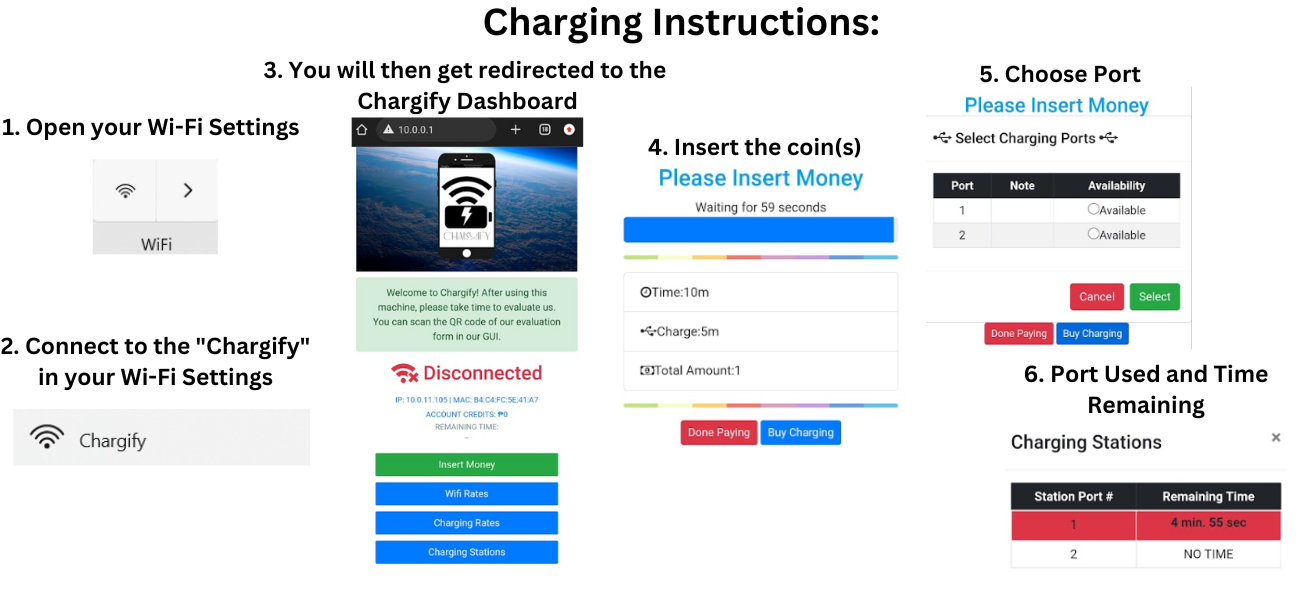
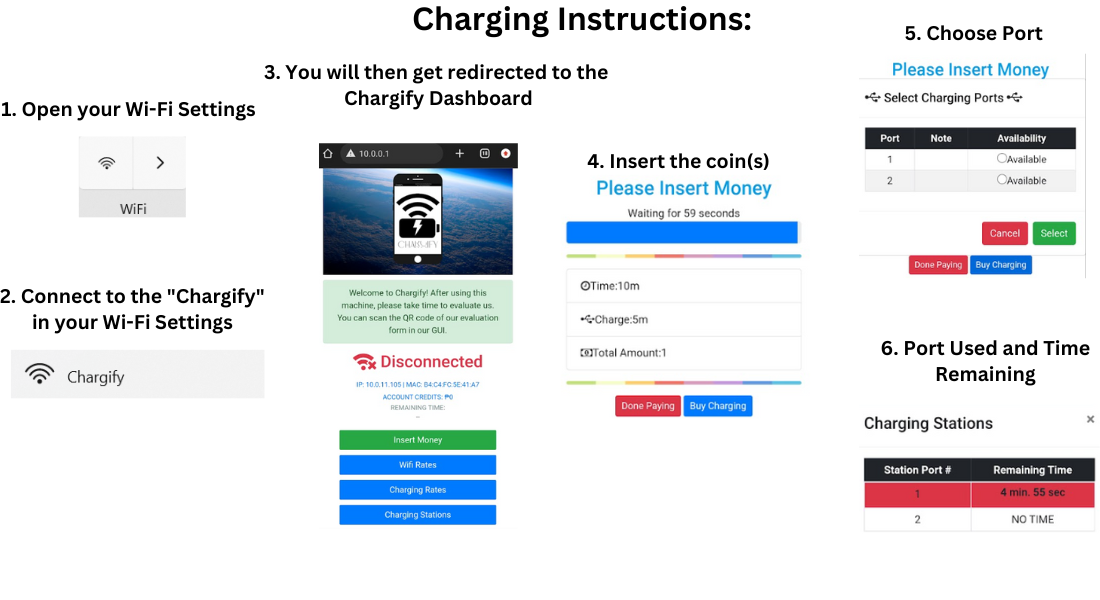
commitpayb

diff --git a/trialerror.html b/trialerror.html
@@ -1,13 +1,3 @@
-<html lang="en">
-<head>
-Test
-</head>
-<body>
-    <h1>This is a test</h1>
-    <a href="index.html">Back</a>
-</body>
-</html>
-
 <!doctype html>
 <html lang="en">
   <head>
@@ -31,11 +21,10 @@ Test
                 Chargify: Wi-Fi and Charging Station
             </a>
 
-            <a href="index.html">
+            <a href="instruction.html">
                 <button>Back</button>
             </a>
 
-            
             <button
                 class="navbar-toggler"
                 type="button"
@@ -51,10 +40,7 @@ Test
             <div class="collapse navbar-collapse" id="toggleMobileMenu">
                 <ul class="navbar-nav ms-auto text-center text-decoration-underline fw-bold">
                     <li>
-                        <a class="nav-link active" href="instruction.html">Wi-Fi</a>
-                    </li>
-                    <li>
-                        <a class="nav-link active" href="instruction.html">Charging</a>
+                        <a class="nav-link active" href="wifiinstruction.html">Wi-Fi</a>
                     </li>
                 </ul>
 
@@ -63,30 +49,14 @@ Test
         </nav>
     </div>
     <div class="container">
-        <div class="full-width d-flex justify-content-center and align-items-center">
+        <div class="full-width">
             <form class="rounded p-4 p-sm-3">
-                <div class="mb-1">
-
-                    
-                    <h1 class="color: green text-center">
-                        <img src="Wifi-Logo.JPG" width="130" height="100">
-                        WI-FI AND CHARGING STATION:<img src="place-Logo.JPG" width="130" height="100"><br>CHARGIFY<br><br>
+                <div class="mb-1">  
+                    <center>
+                        <img class="" src="trialerror.png" width="850" height="550">
                         </h1>
-                    
-
-                    <label for=""></label>
-
-
+                    </center>
                 </div>
-            <a href="instruction.html">
-                <button type="button" class="btn btn-sucess w-100 btn-primary mb-3">Instructions</button>
-            </a>
-            <a href="rates.html">
-                <button type="button" class="btn btn-sucess w-100 btn-primary mb-3">Rates</button>
-            </a>
-            <a href="qrcodeeval.html">
-                <button type="button" class="btn btn-sucess w-100 btn-primary mb-3">Please take time to evaluate us</button>
-            </a>
             </form> 
         </div>
 

diff --git a/charginginstruction.html b/charginginstruction.html
@@ -53,7 +53,7 @@
             <form class="rounded p-4 p-sm-3">
                 <div class="mb-1">  
                     <center>
-                        <img class="" src="ChargingInstructions.png" width="1200" height="550">
+                        <img class="" src="ChargingInstructions.png" width="1150" height="550">
                         </h1>
                     </center>
                 </div>

diff --git a/wifiinstruction.html b/wifiinstruction.html
@@ -53,7 +53,7 @@
             <form class="rounded p-4 p-sm-3">
                 <div class="mb-1">  
                     <center>
-                        <img class="" src="WifiInstructions.png" width="1200" height="550">
+                        <img class="" src="WifiInstructions.png" width="950" height="550">
                         </h1>
                     </center>
                 </div>

diff --git a/instruction.html b/instruction.html
@@ -59,6 +59,9 @@
             <a href="charginginstruction.html">
                 <button type="button" class="btn btn-sucess w-100 btn-primary mb-3">Charging Station</button>
             </a>
+            <a href="trialerror.html">
+                <button type="button" class="btn btn-sucess w-100 btn-primary mb-3">Charging Station</button>
+            </a>
             </form> 
        <div>
 

diff --git a/qrcodeeval.html b/qrcodeeval.html
@@ -47,7 +47,7 @@
                         <h3 class="text-center">
                             Thank you for taking the time to evaluate Chargify.<br>
                             </h3>
-                            <img src="qrcodeeval.png" width = 500 height="500" >
+                            <img src="qrcodeeval.png" width = "400" height= "400">
                     </center>
 
 
